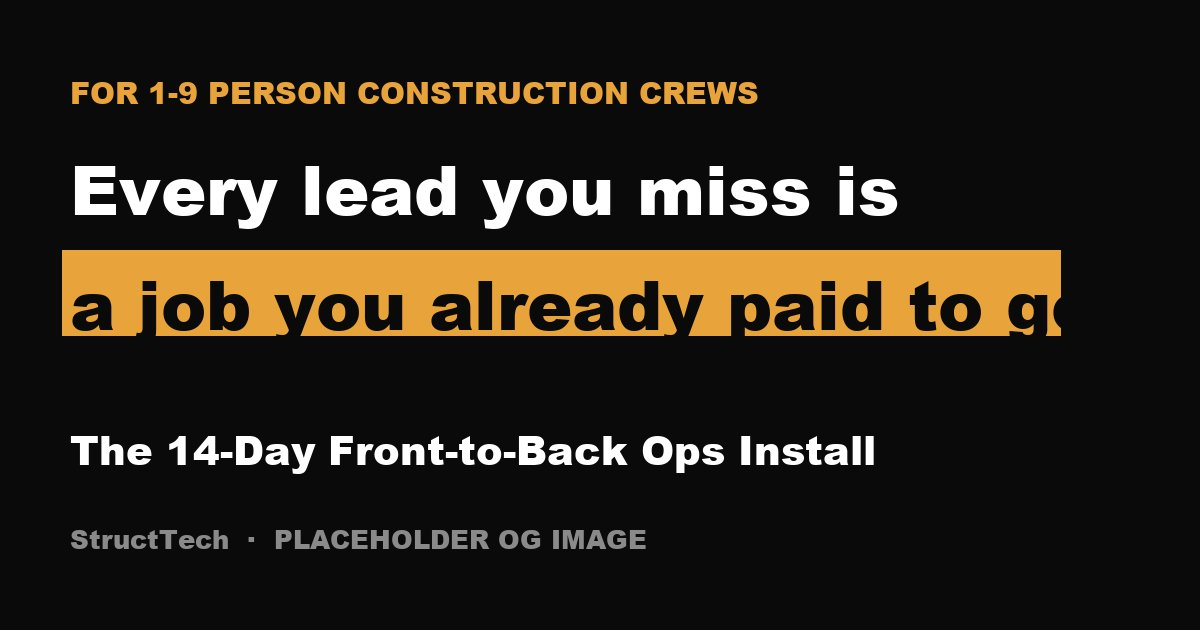
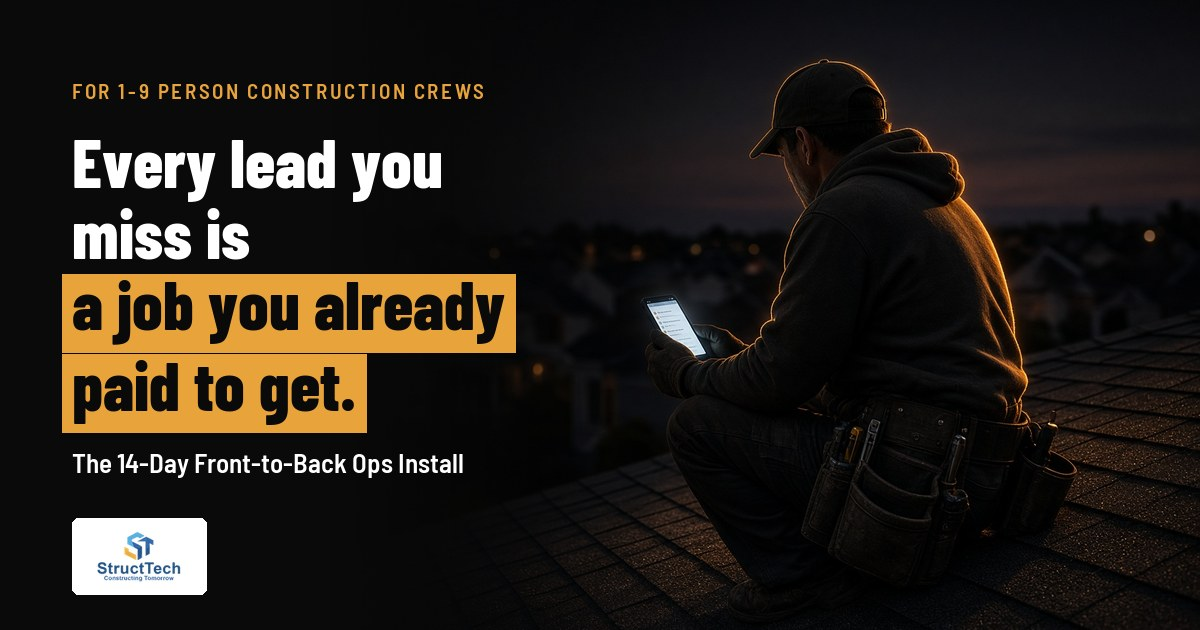
Replace placeholder share image with final /install/ OG image
Grok photo of a roofer on a roof at dusk with the headline, amber bar,
offer line and logo added on top. 1200x630, about 100 KB.

diff --git a/install/index.html b/install/index.html
@@ -15,11 +15,10 @@
 
   <meta property="og:title" content="The 14-Day Front-to-Back Ops Install | StructTech">
   <meta property="og:description" content="A 14-day install that catches every lead and tracks every job for 1-9 person construction crews. Built by Jacob Walker, StructTech.">
-  <!-- TODO: og-install.jpg is a 1200×630 placeholder. Replace with the final OG image. -->
   <meta property="og:image" content="https://structtek.com/assets/og-install.jpg">
   <meta property="og:image:width" content="1200">
   <meta property="og:image:height" content="630">
-  <meta property="og:image:alt" content="Every lead you miss is a job you already paid to get. The 14-Day Front-to-Back Ops Install. StructTech.">
+  <meta property="og:image:alt" content="A roofer at dusk checking his phone on the roof. Every lead you miss is a job you already paid to get. The 14-Day Front-to-Back Ops Install. StructTech.">
   <meta property="og:url" content="https://structtek.com/install/">
   <meta property="og:type" content="website">
   <meta name="twitter:card" content="summary_large_image">

diff --git a/_ops/make-og-install.py b/_ops/make-og-install.py
@@ -1,0 +1,68 @@
+# Rebuilds assets/og-install.jpg. Run from the repo root:
+#   python3 _ops/make-og-install.py <grok-photo.jpg> assets/og-install.jpg
+
+import sys, io
+from PIL import Image, ImageDraw, ImageFont
+src, out = sys.argv[1], sys.argv[2]
+W, H = 1200, 630
+AMBER = (232, 163, 58); WHITE = (255, 255, 255); INK = (10, 10, 10)
+F = 'office-leak-repair/fonts/'
+cond = lambda s: ImageFont.truetype(F + 'barlow-condensed-800.woff2', s)
+semi = lambda s: ImageFont.truetype(F + 'barlow-semi-condensed-600.woff2', s)
+
+# Background: cover-crop to 1200x630, keep the full figure
+im = Image.open(src).convert('RGB')
+sc = W / im.width
+im = im.resize((W, round(im.height * sc)), Image.LANCZOS)
+top = 25
+im = im.crop((0, top, W, top + H))
+
+# Left-to-right darkening so text reads
+grad = Image.new('L', (W, 1))
+for x in range(W):
+    t = x / 700
+    a = 255 if t <= 0.45 else (0 if t >= 1 else int(255 * (1 - (t - 0.45) / 0.55) ** 1.6))
+    grad.putpixel((x, 0), a)
+im = Image.composite(Image.new('RGB', (W, H), INK), im, grad.resize((W, H)))
+d = ImageDraw.Draw(im)
+
+X = 72
+def spaced(xy, text, font, fill, track):
+    x, y = xy
+    for ch in text:
+        d.text((x, y), ch, font=font, fill=fill)
+        x += d.textlength(ch, font=font) + track
+
+# Eyebrow
+spaced((X, 78), 'FOR 1-9 PERSON CONSTRUCTION CREWS', semi(21), AMBER, 2.6)
+
+# Headline: size so the widest line fits 560px
+lines = [('Every lead you', False), ('miss is', False), ('a job you already', True), ('paid to get.', True)]
+size = 68
+while max(d.textlength(t, font=cond(size)) for t, _ in lines) > 500: size -= 1
+f = cond(size); lh = round(size * 1.04); y = 120
+for text, bar in lines:
+    if bar:
+        w = d.textlength(text, font=f)
+        b = d.textbbox((X, y), text, font=f)
+        d.rectangle((X - 10, b[1] - 6, X + w + 10, b[3] + 7), fill=AMBER)
+        d.text((X, y), text, font=f, fill=INK)
+    else:
+        d.text((X, y), text, font=f, fill=WHITE)
+    y += lh + (10 if bar else 0)
+
+# Offer line
+d.text((X, y + 22), 'The 14-Day Front-to-Back Ops Install', font=semi(27), fill=WHITE)
+
+# Logo on a white plate, bottom-left
+logo = Image.open('assets/logo.png').convert('RGBA')
+lw = 118; logo = logo.resize((lw, round(logo.height * lw / logo.width)), Image.LANCZOS)
+px, py, pad = X, H - 44 - logo.height, 8
+d.rounded_rectangle((px, py - pad, px + lw + pad * 2, py + logo.height + pad), radius=6, fill=WHITE)
+im.paste(logo, (px + pad, py), logo)
+
+for q in (88, 84, 80, 76, 72):
+    buf = io.BytesIO(); im.save(buf, 'JPEG', quality=q, optimize=True, progressive=True)
+    if buf.tell() < 300_000: break
+open(out, 'wb').write(buf.getvalue())
+print('font', size, 'quality', q, 'bytes', buf.tell(), im.size)
